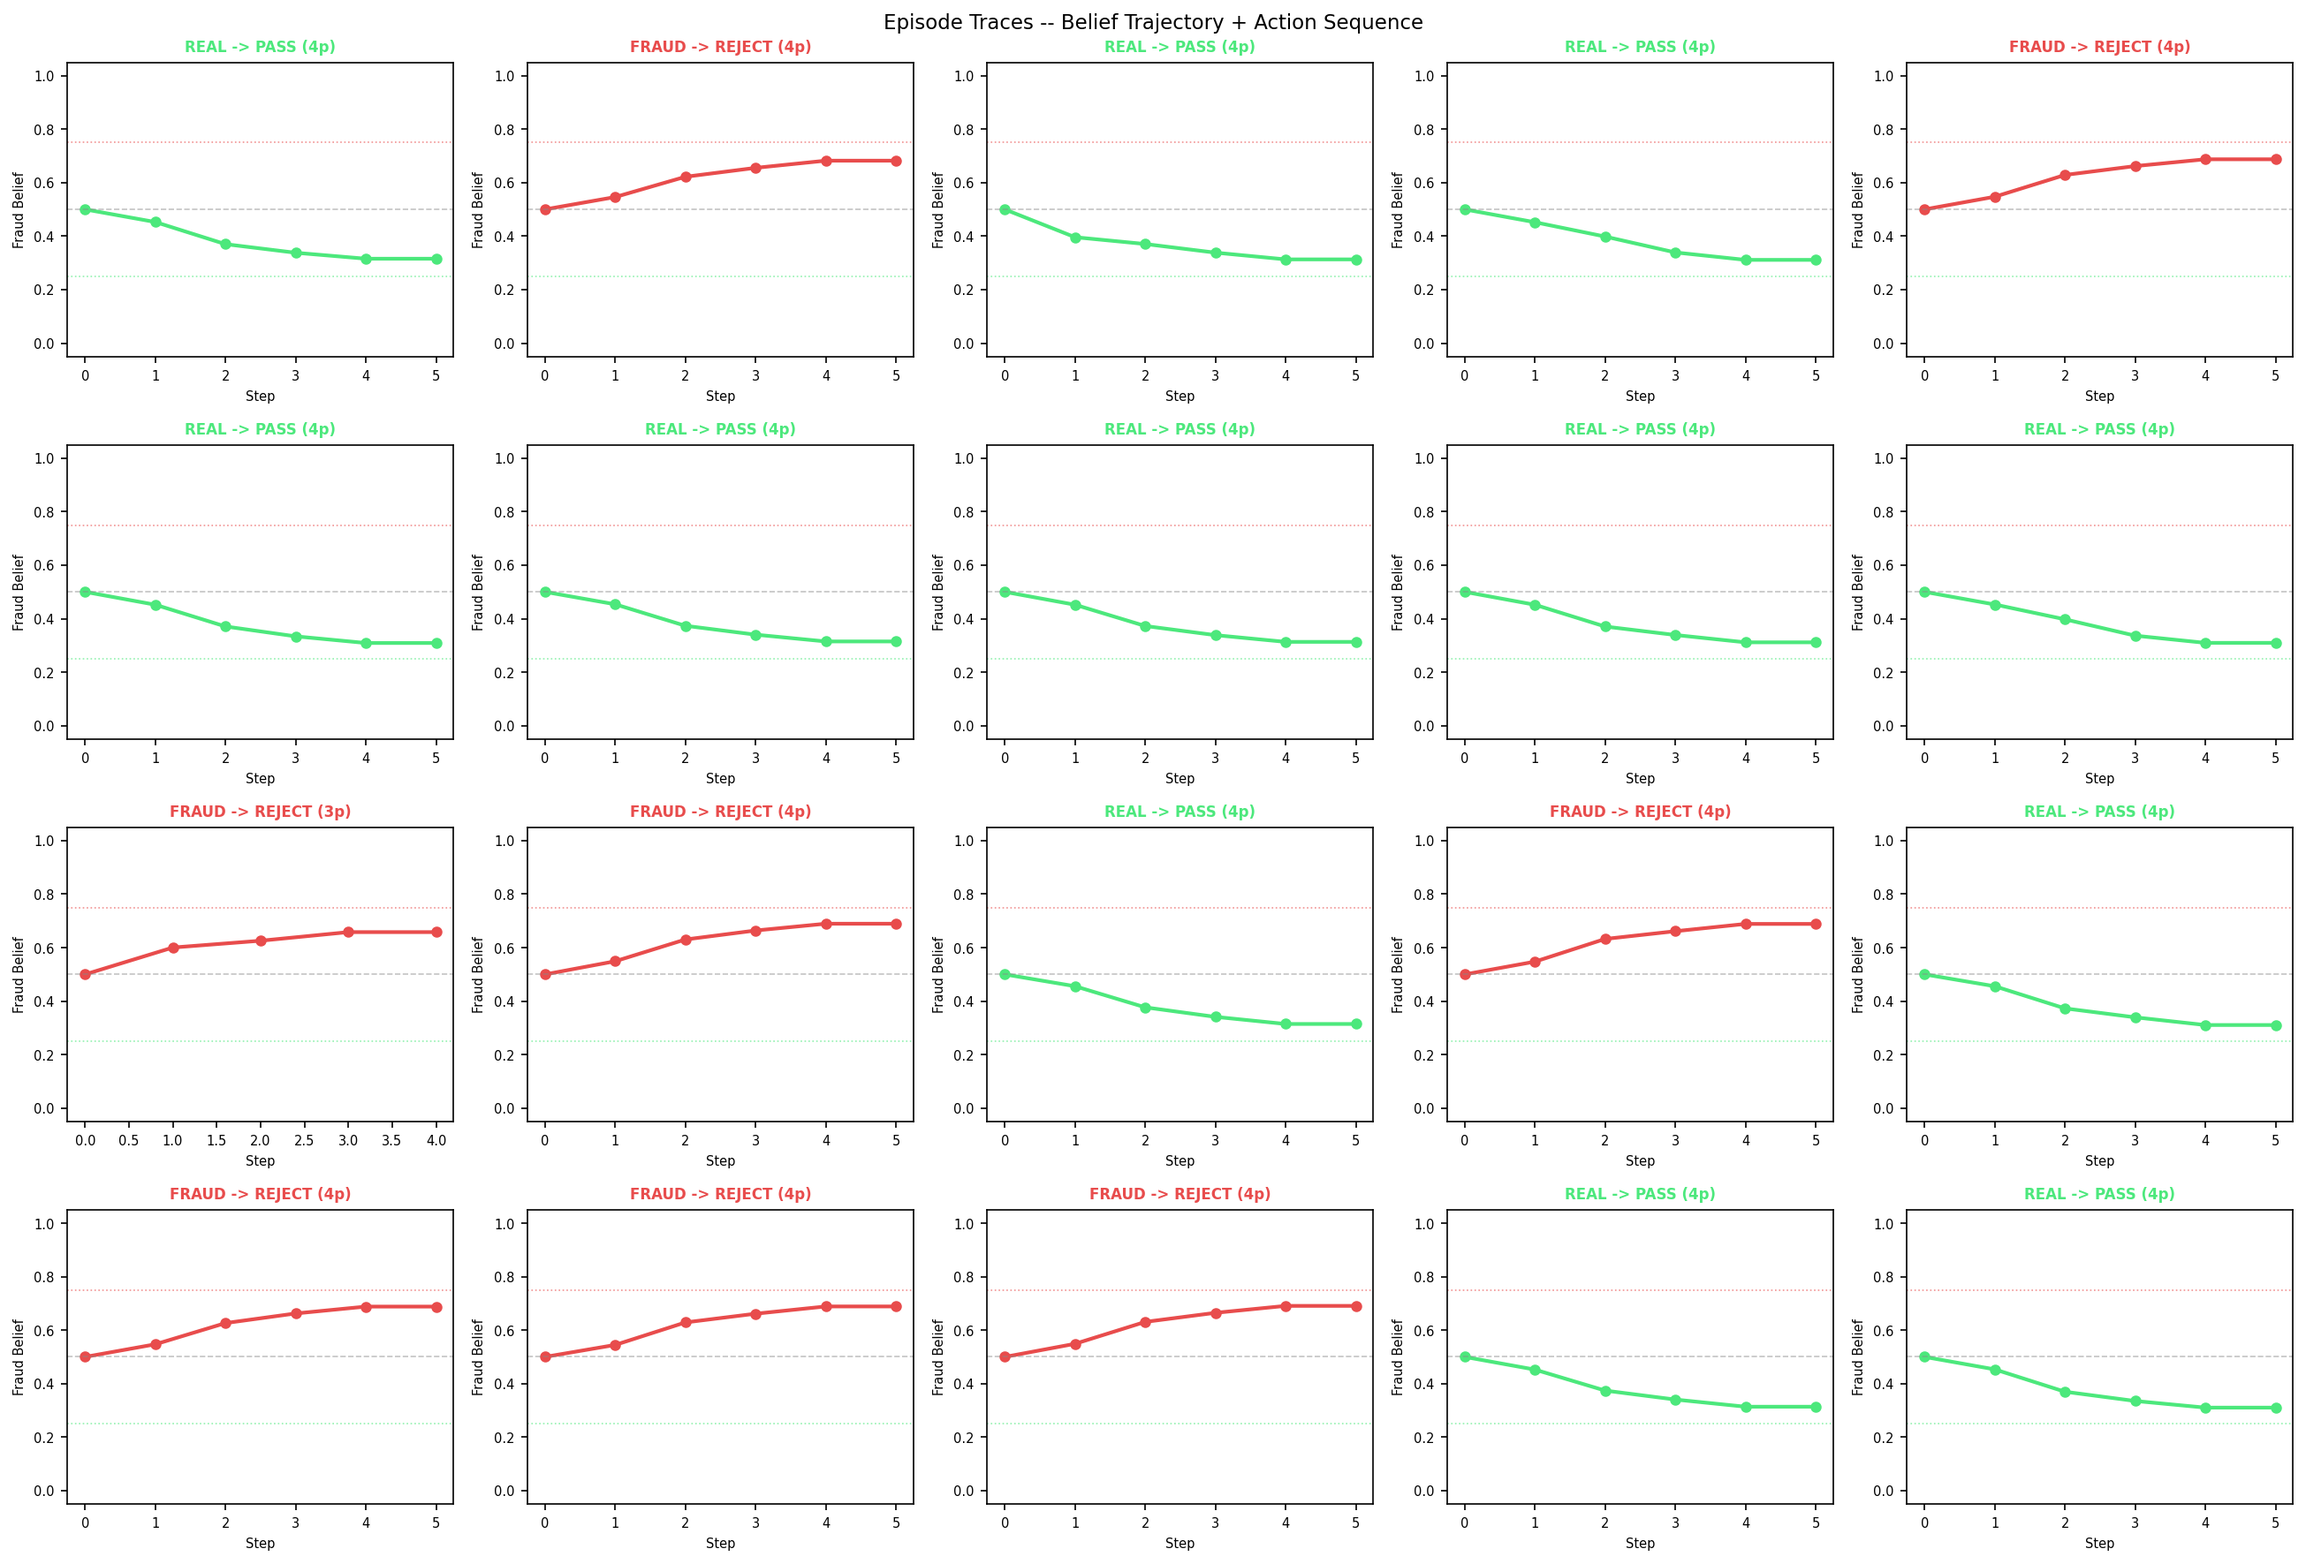
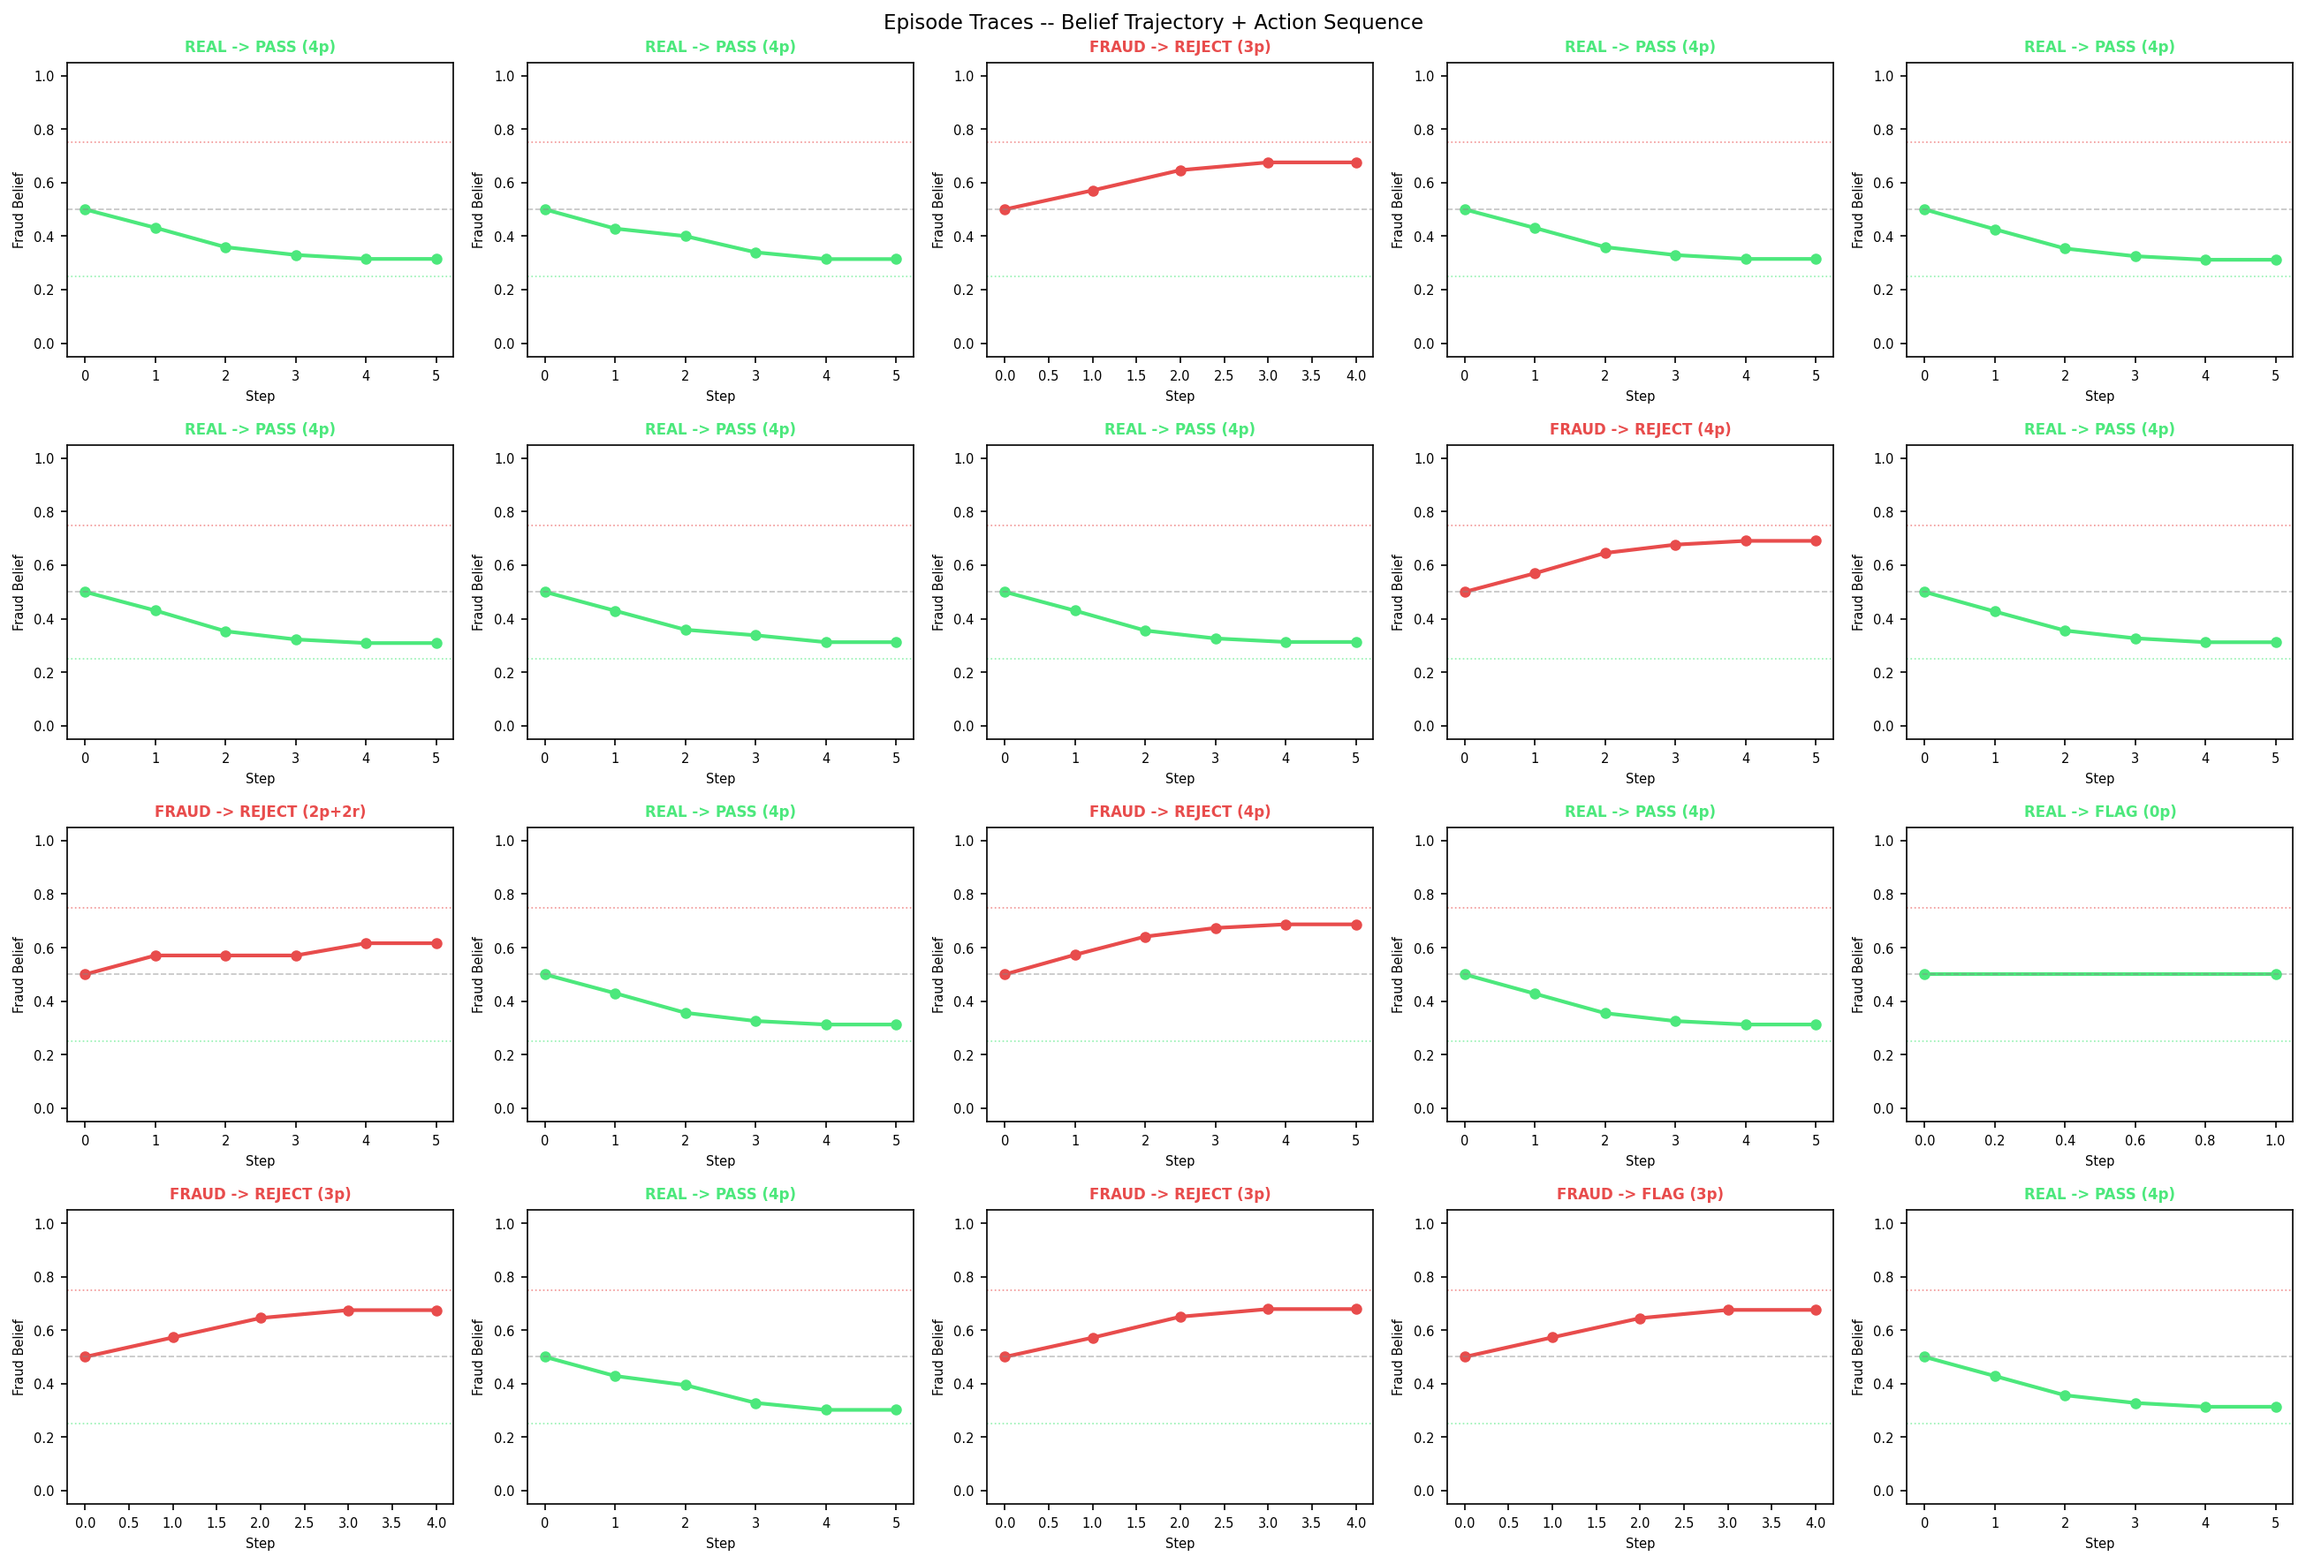
docs: finalize visualization assets for submission
- Update episode traces showing probe action sequences
- Update learning curve with final convergence metrics
- Update README with complete project documentation

diff --git a/README.md b/README.md
@@ -65,12 +65,12 @@ See [COMMANDS.md](COMMANDS.md) for complete command reference.
 
 ## Results
 
-Latest training (kive_ppo_full - 17041 episodes):
-- FN rate: 0.022 (target: <0.05) [PASS]
-- FP rate: 0.012 (target: <0.08) [PASS]
-- Mean probes: 3.78 (adaptive strategy)
-- Probe variance: 0.34 (context-dependent)
-- Mean reward: 1.04 (near-optimal)
+Latest training (kive_ppo_full - 17394 episodes):
+- FN rate: 0.001 (target: <0.05) [PASS]
+- FP rate: 0.003 (target: <0.08) [PASS]
+- Mean probes: 3.56 (adaptive strategy)
+- Probe variance: 0.45 (context-dependent)
+- Mean reward: 1.11 (near-optimal)
 - Converged: true [PASS]
 
 ![Learning Curve](docs/learning_curve.png)
